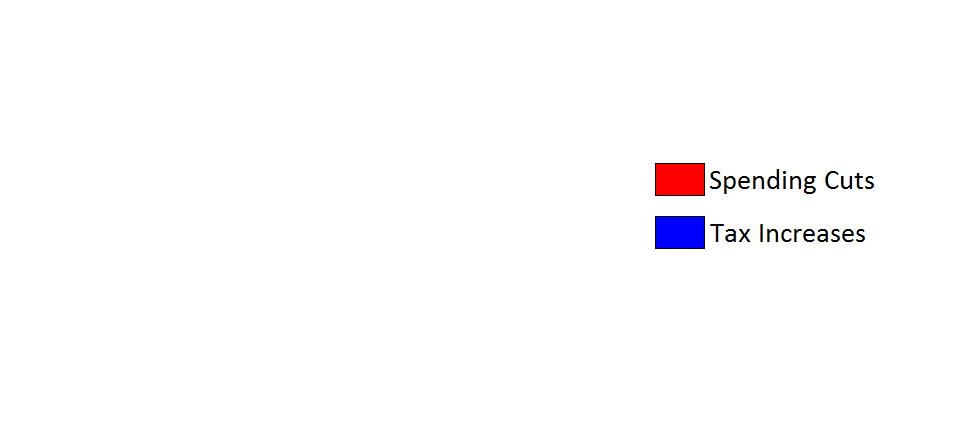
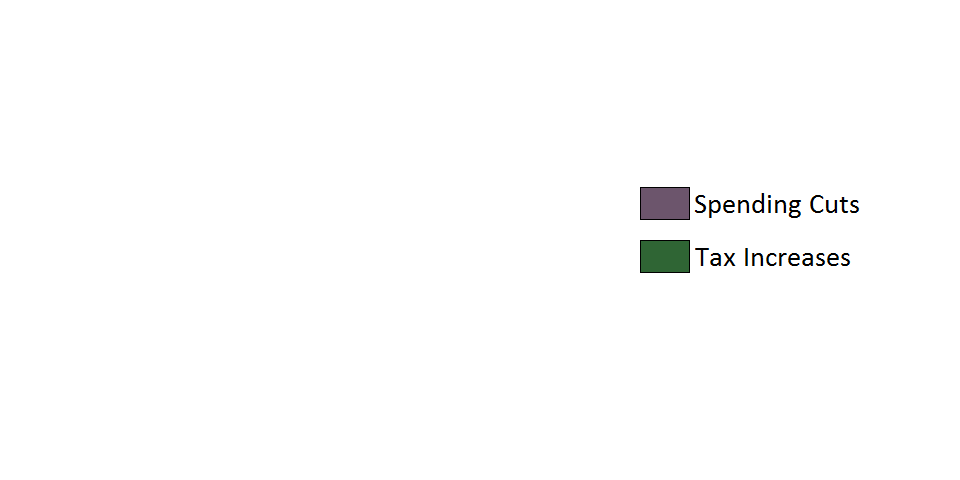
updated style, implemented social media sharing

Changed region(s): [[0.6562, 0.3529, 0.9062, 0.5882]]

diff --git a/dev/debtcalc.js b/dev/debtcalc.js
@@ -138,6 +138,7 @@ function setTarget(tgtval) {
 	/* debug console.log('setTarget(): g_target_val = '+g_target_value.toFixed(3));//*/
 	balanceSliders();
     }
+        configureTweet(tgtval);
 }
 
 function balanceSliders() {
@@ -176,6 +177,34 @@ function solveForTax(spendpct) {
 
 function roundUp(num) {
     return Math.ceil(num * g_scale_factor) / g_scale_factor;
+}
+
+function configureTweet(tgtval) {
+    var achieve;
+    switch (tgtval) {
+    case 'stabilize':
+	achieve = 'Stabilize the Debt';
+	break;
+    case 'balance':
+	achieve = 'Balance the Budget';
+	break;
+    case 'custom':
+	achieve = 'Reduce Debt to ' + g_custom_target + '%';
+	break;
+    case 'free':
+    default:
+	achieve = 'Improve Fiscal Responsibility';
+    }
+    $('#bottom_banner').empty();
+    $('#bottom_banner').append($('<a></a>').attr({
+	'href': 'https://twitter.com/share',
+	'class': 'twitter-share-button',
+	'data-text': 'I fixed ' + g_cand_name + '\'s Plan to ' + achieve + ' and you can too:',
+	'data-url': 'http://crfb.org/blogs/interactive-tool-reforming-candidates-fiscal-plans',
+	'data-via': 'BudgetHawks',
+	'data-size': 'large'
+    }));
+    twttr.widgets.load();
 }
 
 function customHandler() {
@@ -473,7 +502,7 @@ function drawChart(spendpct, taxup) {
 	backgroundColor: {
 	    fill: 'transparent'
 	},
-	colors: ['red','blue'],
+	colors: ['#6c556c', '#2f6534'],
 	fontSize: 12
     };
     var pieChart = new google.visualization.ChartWrapper({

diff --git a/dev/debtcalc.css b/dev/debtcalc.css
@@ -3,8 +3,8 @@ body {
     font-size: 12pt;
     font-weight: 400;
     margin: auto;
-    width: 705px;
-    height: 630px;
+    width: 740px;
+    height: 695px;
     padding: 5px;
     background-color: #131543;
 }
@@ -20,6 +20,7 @@ h1,h2,h3,h4,h5 {
 h1 {
     color: white;
     font-size: 25pt;
+    margin: 5px;
 }
 
 h2 {
@@ -40,8 +41,9 @@ h5 {
 
 #left_panel {
     float: left;
-    width: 270px;
-    height: 585px;
+    width: 290px;
+    height: 600px;
+    padding: 5px;
     background-color: white;
     text-align: left;
 }
@@ -67,10 +69,9 @@ label .rightJustified {
     float: left;
     text-align: center;
     width: 125px;
-    padding: 2px 2px;
+    padding: 5px;
     background-color: #e0e0e0;
-    border-style: solid;
-    border-color: white;
+    border: 5px solid white;
 }
 
 .inputField {
@@ -116,17 +117,25 @@ label .rightJustified {
 
 #reset_area {
     text-align: center;
-    margin-bottom: 5px;
+}
+
+#reset_button {
+    margin: 5px !important;
 }
 
 #right_panel {
-    margin-left: 5px;
+    padding-left: 10px;
     float: left;
-    background: #d0d0d0;
+    background: #656565;
+    height: 610px;
 }
 
 .chartContainer {
     background-color: white;
+    padding: 5px 0px 3px 0px;
+}
+
+#series_container {
     margin-bottom: 10px;
 }
 
@@ -153,6 +162,6 @@ label .rightJustified {
 }
 
 #pie_area {
-    height: 221px;
+    height: 240px;
     width: 430px;
 }

diff --git a/dev/trumpdata.js b/dev/trumpdata.js
@@ -51,6 +51,6 @@ var g_custom_max     = 1.27;
 var g_custom_default = 0.66;
 
 /* for results display */
-var g_line_color = 'red';
+var g_line_color = '#bb3224';
 var g_cand_name = 'Trump';
 var g_base_toptax = 25;

diff --git a/dev/clintondata.js b/dev/clintondata.js
@@ -54,6 +54,6 @@ var g_custom_max     = 0.87;
 var g_custom_default = 0.66;
 
 /* chart styling */
-var g_line_color = 'blue';
+var g_line_color = '#41479d';
 var g_cand_name = 'Clinton';
 var g_base_toptax = 44;
